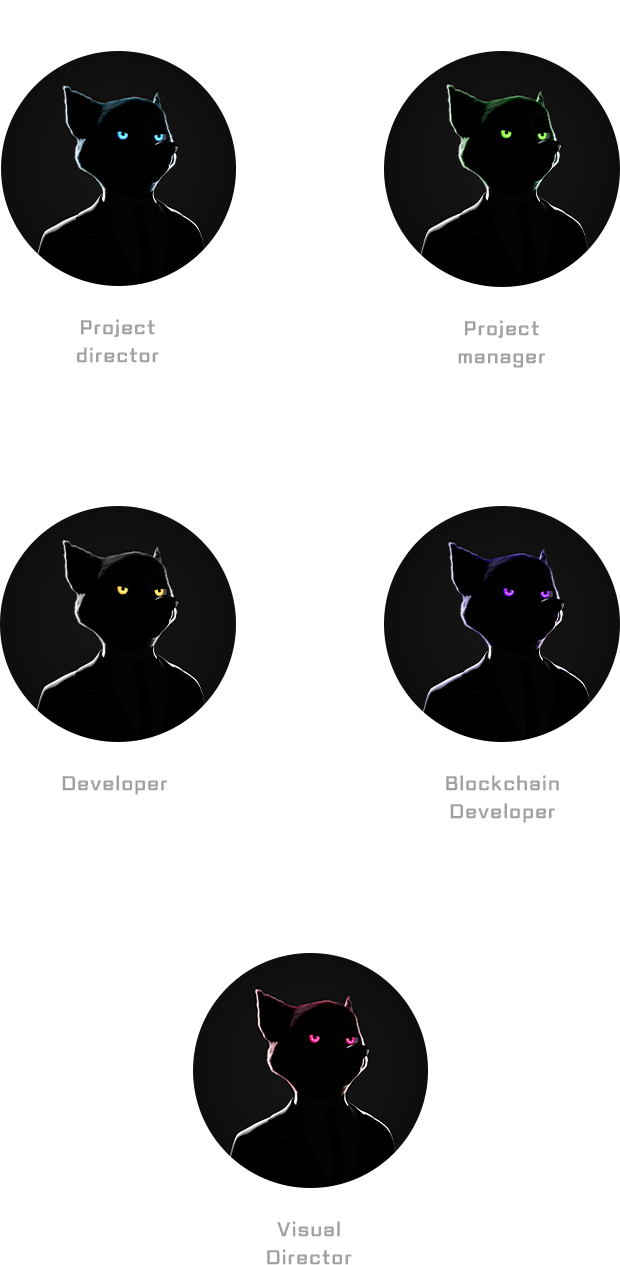
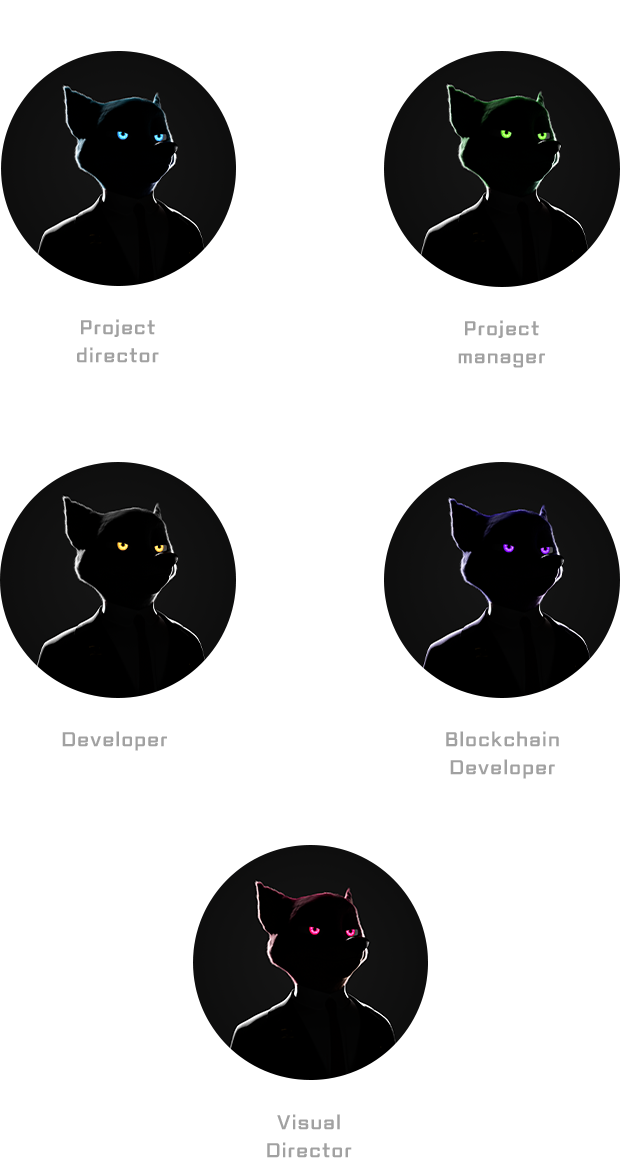
fix minor css

diff --git a/src/App.css b/src/App.css
@@ -310,18 +310,7 @@
   left: 15%;
   width: 70%;
   position: absolute;
-  top: 15rem;
-}
-
-.team-background-container {
-  position: relative; 
-  margin: 0 auto;
-  background:url(./images/team-background.png) no-repeat center center;
-  background-size:cover;
-  width:100%;
-  height:50rem;
-  text-align: center;
-  overflow: hidden;
+  top: 12rem;
 }
 
 .team-title {
@@ -329,7 +318,7 @@
   font-family: 'esamanru';
   font-size: 1.3rem;
   position: absolute;
-  top: 6rem;
+  top: 4rem;
   left: 0; 
   right: 0; 
   margin-left: auto; 
@@ -418,11 +407,16 @@
   }
 
   .team-title {
+    top: 5rem;
     font-size: 1.6rem;
   }
 
   .team-title-bold {
     font-size: 1.9rem;
+  }
+
+  .team-contents {
+    top: 14rem;
   }
 }
 
@@ -531,7 +525,7 @@
 
   .team-title {
     width: 190px;
-    top: 9rem;
+    top: 7rem;
     font-size: 2rem;
   }
 
@@ -540,7 +534,7 @@
   }
 
   .team-contents {
-    top: 25rem;
+    top: 20rem;
   }
 }
 
@@ -645,13 +639,17 @@
   }
 
   .team-title {
-    top: 7rem;
+    top: 5rem;
     font-size: 2.3rem;
     width: 200px;
   }
 
   .team-title-bold {
     font-size: 2.7rem;
+  }
+
+  .team-contents {
+    top: 18rem;
   }
 }
 

diff --git a/src/images/index.js b/src/images/index.js
@@ -9,11 +9,6 @@ export const OPENSEABTN  = require('./go-to-opensea-btn.png');
 export const ROADMAPBG  = require('./roadmap-background.png');
 export const ROADMAPSM  = require('./roadmap-content-sm.png');
 export const ROADMAPLG  = require('./roadmap-content-lg.png');
-export const JACE = require('./JACE.png');
-export const JACOB = require('./JACOB.png');
-export const JAMIE = require('./JAMIE.png');
-export const LOUIS = require('./LOUIS.png');
-export const SEEYONG = require('./SEE-YONG.png');
 export const TEAMBGLG = require('./team-background-lg.png');
 export const TEAMBGSM = require('./team-background-sm.png');
 export const TEAMLG = require('./team-lg.png');

diff --git a/src/components/Team.js b/src/components/Team.js
@@ -1,7 +1,5 @@
 import React, { useCallback } from 'react';
 import { TEAMBGLG, TEAMBGSM, TEAMLG, TEAMSM } from '../images';
-import { Row, Col } from 'antd';
-import 'antd/dist/antd.css';
 
 function Main() {
     const teamRenderer = useCallback(() => {
